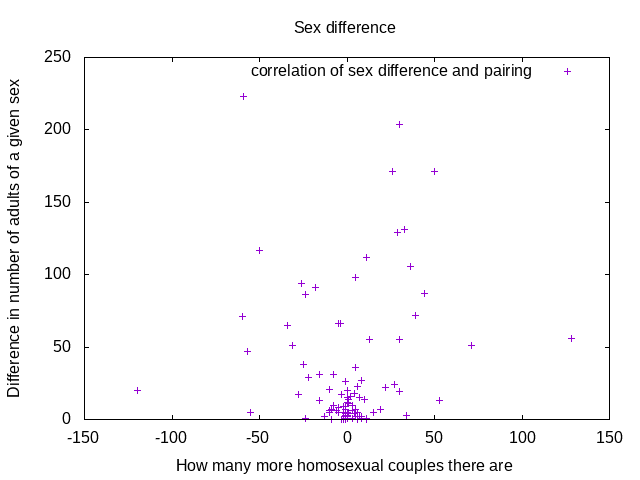
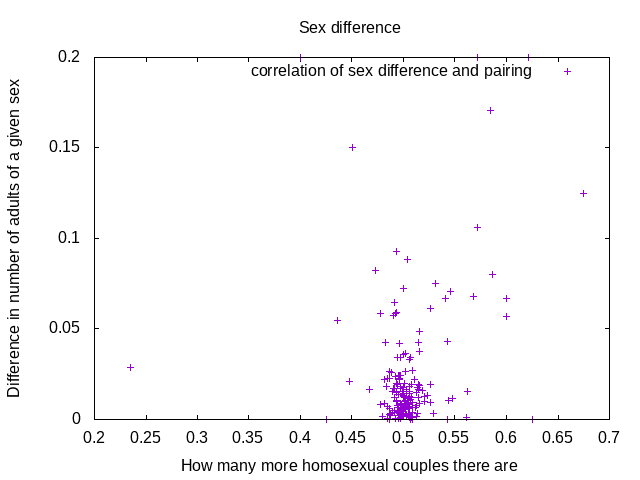
Update README and generate characteristic

diff --git a/data/sex-difference.py b/data/sex-difference.py
@@ -1,0 +1,46 @@
+import random
+import matplotlib.pyplot as plt
+import pandas as pd
+from math import fabs
+import numpy as np
+
+sex_differences = []
+pair_differences = []
+
+for i in range(2, 100):
+    for j in range(i):
+        men = j
+        women = i - j
+        homo_pair = 0
+        hetero_pair = 0
+
+        for m in range(men):
+            men = men - 1
+            if random.randint(1,i) <= j:
+                men = men - 1
+                homo_pair = homo_pair + 1
+            else:
+                women = women - 1
+                hetero_pair = hetero_pair + 1
+        homo_pair = homo_pair + women // 2
+
+        sex_difference = fabs(2*j - i) / i
+        sex_differences.append(sex_difference)
+
+        pair_difference = homo_pair / (homo_pair + hetero_pair)
+        pair_differences.append(pair_difference)
+
+plt.scatter(x=pair_differences, y=sex_differences, color='blue', label='generated characteristic')
+
+
+darwin_output = pd.read_csv('output/logs.csv', sep=';')
+darwin_sex_differences = np.fabs((np.array(darwin_output.adult_males_number.tolist()) - np.array(darwin_output.adult_females_number.tolist())) / (np.array(darwin_output.adult_males_number.tolist()) + np.array(darwin_output.adult_females_number.tolist())))
+darwin_pair_differences = np.array(darwin_output.homo_couples_number.tolist()) / (np.array(darwin_output.homo_couples_number.tolist()) + np.array(darwin_output.straight_couples_number.tolist()))
+
+plt.scatter(x=darwin_pair_differences, y=darwin_sex_differences, color='red', label='actual results')
+
+plt.title('Sex difference')
+plt.xlabel('How many more homosexual couples there are')
+plt.ylabel('Difference in number of adults of a given sex')
+plt.legend(loc=2)
+plt.show()

diff --git a/src/Plotter.cpp b/src/Plotter.cpp
@@ -50,12 +50,18 @@ void Plotter::saveSexNumberDifferenceAndCouplesSexuality(std::vector<Info> *info
     gp << "set terminal png\n";
     gp << "set output '" + *outputPath + "correlation-sex-and-couples.png'\n";
 
-    std::vector<std::pair<int, int>> xy_sex_and_couples_difference;
+    std::vector<std::pair<double, double>> xy_sex_and_couples_difference;
     for(int i = 1; i < info->size(); i++) {
-        int sex_number_difference = info->at(i).maleAdultNumber - info->at(i).femaleAdultNumber; 
+        double adultsNumber = (double) (info->at(i).maleAdultNumber + info->at(i).femaleAdultNumber);
+        if (adultsNumber < 2) {
+            continue;
+        }
+        double sex_number_difference = (double) (info->at(i).maleAdultNumber - info->at(i).femaleAdultNumber); 
         sex_number_difference = (sex_number_difference >= 0) ? sex_number_difference : sex_number_difference * -1;
+        sex_number_difference = sex_number_difference / adultsNumber;
 
-        int couple_sexuality_difference = info->at(i).homoCouplesNumber - info->at(i).straightCouplesNumber;
+        double couple_sexuality_difference = (double) info->at(i).homoCouplesNumber / (double) (info->at(i).straightCouplesNumber + info->at(i).homoCouplesNumber);
+        //couple_sexuality_difference = couple_sexuality_difference / (adultsNumber / 2);
 
         xy_sex_and_couples_difference.push_back(std::make_pair(couple_sexuality_difference, sex_number_difference));
     }

diff --git a/src/Couple.cpp b/src/Couple.cpp
@@ -29,10 +29,7 @@ std::vector<Child> Couple::begetChildren(Environment * environment) {
 }
 
 bool Couple::isStraight() {
-	return (
-		(first->getIsMale() && !second->getIsMale()) ||
-		(!first->getIsMale() && second->getIsMale())
-	);
+	return first->getIsMale() != second->getIsMale();
 }
 
 Statistics Couple::getChildStatistics() {

diff --git a/README.md b/README.md
@@ -74,10 +74,15 @@ We can clearly see that something bad happened around 60-th epoch. Number of peo
 In the second attribute correlation chart we can observe even more clearly that the change of average attribute is related to the environment. If the need for dexterity decreases, people's dexterity decreases too. They are getting lazy. If it increases, people's dexterity increases too. We can even observe the delay of the change and therefore what causes what. People's attribute changes much later that the environment. It can cause problems as we observed in the first two charts.
 
 <p align="center">
-  <img src="https://raw.githubusercontent.com/franpog859/darwinLogs/master/docs/3-not-linear-correlation-sex-and-couples.png">
+<table cellspacing="0" cellpadding="0">
+  <tr>
+    <th scope="col"><img src="https://raw.githubusercontent.com/franpog859/darwinLogs/master/docs/3-not-linear-correlation-sex-and-couples.png"></th>
+    <th scope="col"><img src="https://raw.githubusercontent.com/franpog859/darwinLogs/master/docs/3-not-linear-correlation-sex-and-couples-explanation.png"></th>
+  </tr>
+</table>
 </p>
 
-I tried to show the linear relation with sex difference and difference of number of homosexual and heterosexual couples. If the sex difference increases number of homosexual couples should increase too. I cannot observe it in the chart tho. If you can see any mistake I did, tell me!
+I tried to show the linear relation with sex difference and difference of number of homosexual and heterosexual couples. If the sex difference increases number of homosexual couples should increase too. Dataset is so small that you cannot observe it with naked eye! I generated the characteristic and added the results to see that is's in fact true.
 
 <p align="center">
   <img src="https://raw.githubusercontent.com/franpog859/darwinLogs/master/docs/4-elders-boom-correlation-elders-dexterity.png">
